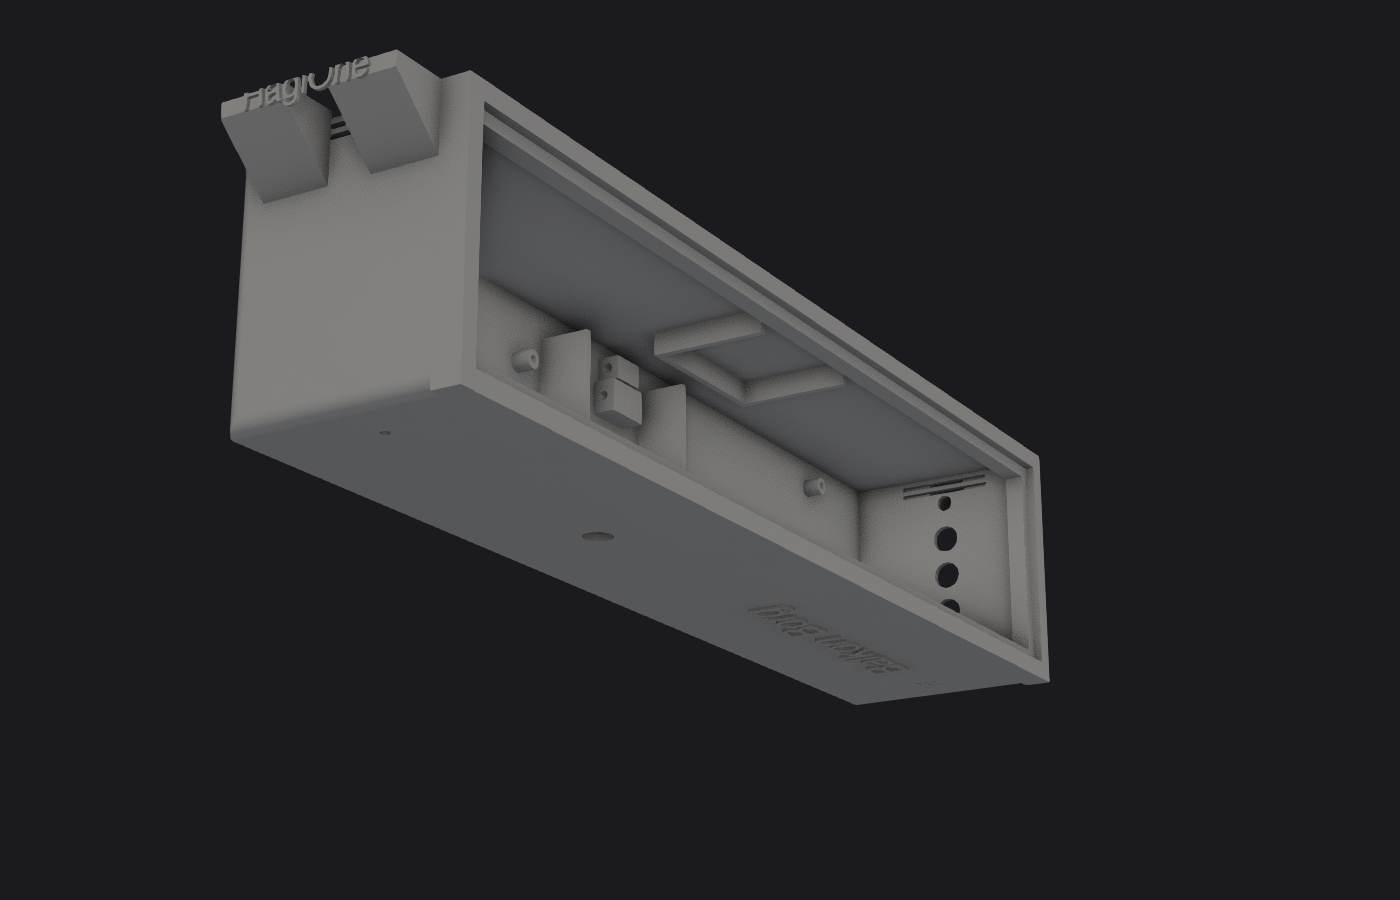
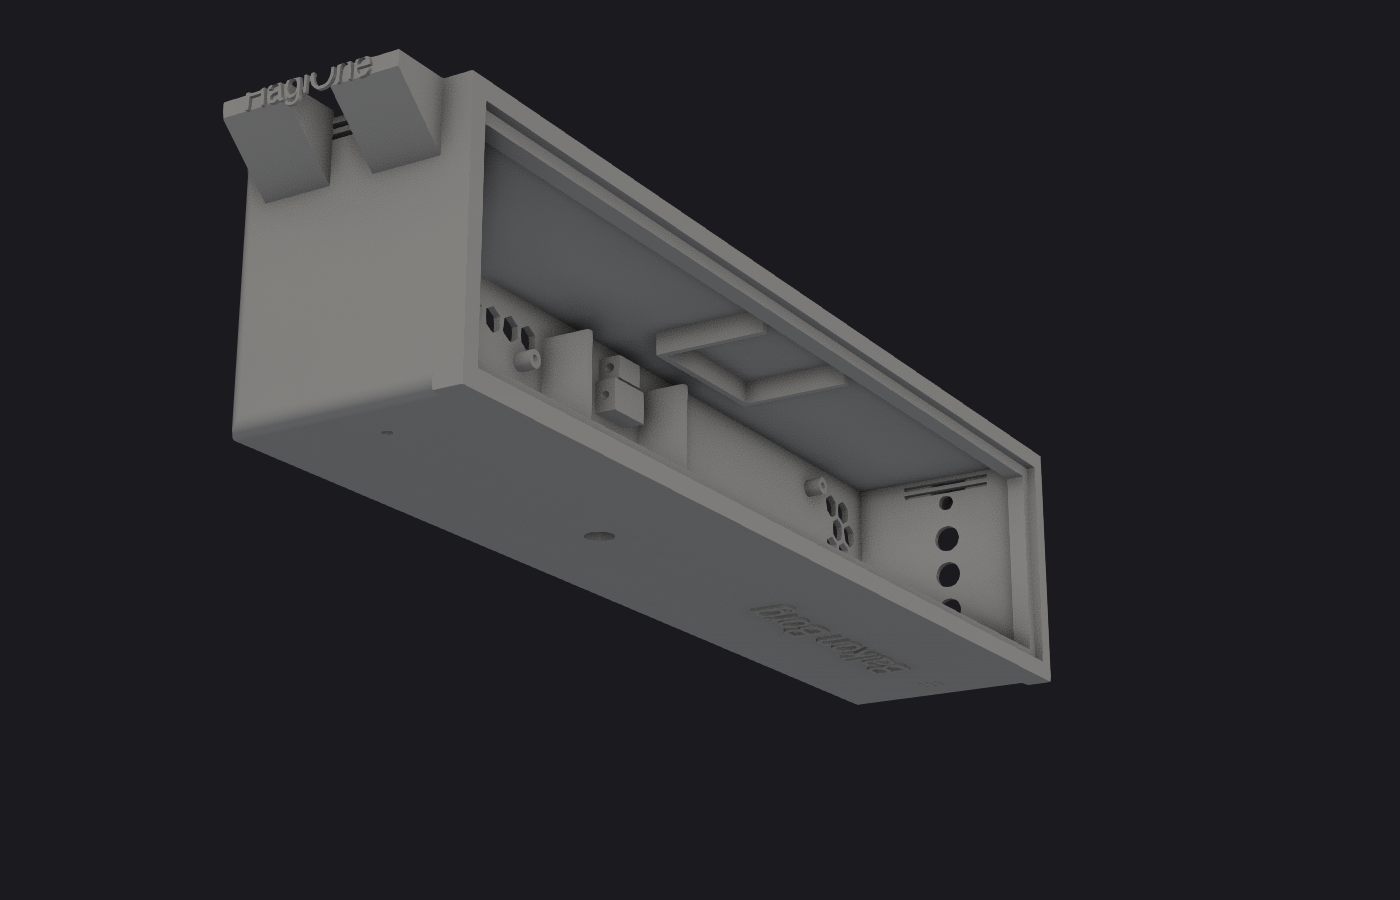
cad: systematic rear layout from board keep-out zones
Model the rear wall as board keep-out zones and fill the free areas
deliberately: four honeycomb panels (REAR_GRILLES) in the board-free
zones (far left, middle bay, above/below the Pi) and two bold wordmarks
(REAR_TEXTS) centred one per half. Raised text may sit over the boards
(it is outside the wall); only the grille openings dodge the keep-outs,
and nothing crosses the X=0 split seam.

Fix the wordmark offset by placing text on a ProjectedOrigin workplane at
the exact centre (_rear_text) instead of the drifting face bbox centre,
and make the wordmarks bold and larger.

Claude-Session: https://claude.ai/code/session_01X3XcqyQcw3eP146g1EdqWY

diff --git a/cad/balkon_borg.py b/cad/balkon_borg.py
@@ -168,16 +168,27 @@ VENT_SLIT = 2.0        # slit width (was 4 mm)
 VENT_MID_X = 20.0      # rear vents in the clear zone between carrier and Pi
 VENT_END_Z = 100.0     # exhaust slits high on the end walls
 
-# Rear hex honeycomb grille (the eye-catcher vent). A wide, flat field of pointy-top
-# hexagons sitting entirely in the board-free middle bay (between the carrier board on
-# the left, the Pi board on the right, and clear of the divider ribs), so nothing that
-# holds a PCB is behind it. SLS prints this without supports; webs stay above 1 mm.
-GRILLE_CX = 11.0       # grille field centre X (middle bay, clear of both boards)
-GRILLE_CZ = 53.0       # grille field centre Z
-GRILLE_W = 66.0        # field width  (wide and flat: 66 x 40, aspect ~1.65)
-GRILLE_H = 40.0        # field height (kept low on purpose)
+# Rear-wall layout. The boards behind the wall define keep-out zones for anything that
+# cuts THROUGH the wall (grille, holes). Raised text sits on the OUTSIDE and may go
+# anywhere there is wall. Nothing crosses the X=0 split seam, and everything is centred
+# in its own zone. SLS prints the honeycomb without supports; webs stay above 1 mm.
 HEX_PITCH = 12.0       # hexagon centre-to-centre (across flats)
 HEX_WALL = 2.2         # solid web between openings (SLS-safe, > 1 mm)
+
+# Honeycomb grille panels (cx, cz, w, h), each fully inside a board-free zone and on
+# one side of the seam: far left of the carrier, the middle bay right of the seam, and
+# the wide-flat strips above and below the Pi.
+REAR_GRILLES = (
+    (-203.0, 55.0, 32.0, 84.0),
+    (  29.0, 55.0, 32.0, 84.0),
+    (  96.0, 93.0, 82.0, 14.0),
+    (  96.0, 16.0, 82.0, 14.0),
+)
+# Raised wordmarks (text, cx, cz, size), each centred in one half, clear of the seam.
+REAR_TEXTS = (
+    ("HagiOne",     -115.0, 55.0, 22.0),
+    ("Balkon Borg",  115.0, 55.0, 16.0),
+)
 
 # WLED controller cradle on the top inner wall. Athom publishes NO mechanical
 # dimensions and the High-Power board has no documented mount holes, so this is a
@@ -216,6 +227,18 @@ def _pattern(center: tuple[float, float], dx: float, dz: float
 
 def _cyl(d: float, h: float, pnt: cq.Vector, direction: cq.Vector) -> cq.Solid:
     return cq.Solid.makeCylinder(d / 2, h, pnt, direction)
+
+
+def _rear_text(body: cq.Workplane, s: str, cx: float, cz: float,
+               size: float, depth: float) -> cq.Workplane:
+    """Raise text on the rear (-Y) outer face, exactly centred at (cx, cz).
+
+    Uses a ProjectedOrigin workplane so the text lands where asked instead of at the
+    face bounding-box centre (which drifts as features are added).
+    """
+    return (body.faces("<Y")
+            .workplane(centerOption="ProjectedOrigin", origin=(cx, 0.0, cz))
+            .text(s, size, depth, combine=True, kind="bold"))
 
 
 def _hex_grille(cx: float, cz: float, w: float, h: float, pitch: float,
@@ -331,10 +354,9 @@ def build_body() -> cq.Workplane:
         body = body.cut(_cyl(PWR_SCREW_D, WALL + 2 * EPS,
                              cq.Vector(px, -EPS, pz + s * PWR_SCREW_DZ / 2),
                              cq.Vector(0, 1, 0)))
-    # Hex honeycomb grille in the rear wall (the eye-catcher vent), in the clear zone
-    # between the carrier and the Pi. Generous open area, insect-safe webs, cast look.
-    body = body.cut(_hex_grille(GRILLE_CX, GRILLE_CZ, GRILLE_W, GRILLE_H,
-                                HEX_PITCH, HEX_WALL, -EPS, WALL + EPS))
+    # Hex honeycomb grille panels filling the board-free rear zones (see REAR_GRILLES).
+    for cx, cz, w, h in REAR_GRILLES:
+        body = body.cut(_hex_grille(cx, cz, w, h, HEX_PITCH, HEX_WALL, -EPS, WALL + EPS))
     # Exhaust: slits high on both end walls (hot air rises; the top is ceiling).
     for sx in (1, -1):
         for z in (VENT_END_Z, VENT_END_Z + 4):
@@ -423,9 +445,9 @@ def build_body() -> cq.Workplane:
             .text(TEXT_RIGHT, TEXT_SIZE, TEXT_DEPTH, combine=True))
     body = (body.faces("<Z").workplane(centerOption="CenterOfBoundBox")
             .center(BOTTOM_X, 0).text(TEXT_BOTTOM, BOTTOM_SIZE, TEXT_DEPTH, combine=True))
-    # HagiOne also on the rear wall, in the clear upper band above the grille.
-    body = (body.faces("<Y").workplane(centerOption="CenterOfBoundBox")
-            .center(0, 35).text(TEXT_RIGHT, TEXT_SIZE, TEXT_DEPTH, combine=True))
+    # Rear wordmarks, each centred in its half (see REAR_TEXTS), clear of the seam.
+    for s, cx, cz, size in REAR_TEXTS:
+        body = _rear_text(body, s, cx, cz, size, TEXT_DEPTH)
 
     # Trim any boolean sliver above the ceiling plane so the ear tops stay flat.
     body = body.cut(cq.Solid.makeBox(

diff --git a/log/decisions.md b/log/decisions.md
@@ -18,6 +18,35 @@ log what is already in the code/YAML.
 
 ---
 
+## 2026-07-11 — Rear wall as keep-out zones + centred grille/wordmark layout
+
+**Context:** the single grille was small and off to one side, and the rear wordmark was
+small and looked oddly offset. Wanted a systematic layout: mark where the boards sit,
+derive the free areas, then fill them with grille (with margin) and the centred
+HagiOne / Balkon Borg wordmarks.
+
+**Two realisations that drive the layout:**
+- **Raised text may sit anywhere** on the rear (it is on the outside of the wall); only
+  grille openings, which cut through, must dodge the board keep-outs.
+- There is a **split seam at X=0**. Nothing may cross it (it would be cut between the
+  two printed halves). This was the real cause of the "oddly offset" wordmark: HagiOne
+  sat centred on x=0, i.e. straight on the seam.
+
+**Decision — computed layout, everything centred in its own zone, nothing on the seam:**
+- Keep-outs (for holes): carrier board (left), Pi board (centre-right), status LEDs and
+  XT60 (right), divider ribs, seam.
+- **Four honeycomb panels** (`REAR_GRILLES`) in the board-free zones: far left of the
+  carrier and the middle bay right of the seam (both tall), plus the wide-flat strips
+  above and below the Pi. All verified clear of every board, boss, rib and the seam.
+- **Two wordmarks** (`REAR_TEXTS`), **bold**, bigger (HagiOne 22, Balkon Borg 16), each
+  centred in one half (x=-115 / x=+115, z=55), clear of the seam.
+- The offset bug is fixed by placing text on a **ProjectedOrigin workplane** at the exact
+  (cx, cz) (`_rear_text`) instead of trusting the face bounding-box centre.
+
+Supersedes the earlier single wide-flat grille from today.
+
+---
+
 ## 2026-07-11 — Rear hex honeycomb grille (replaces the diagonal louvres)
 
 **Context:** the diagonal rear louvres were too small and too boring. Wanted a really